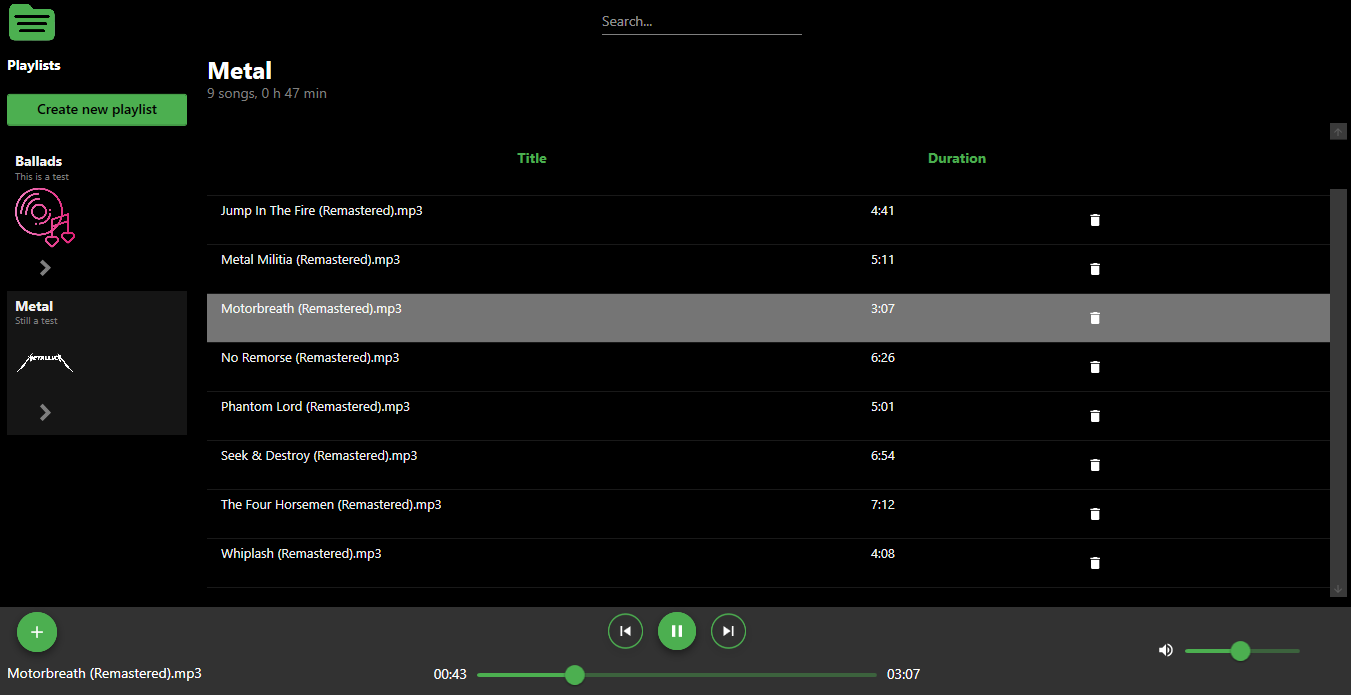
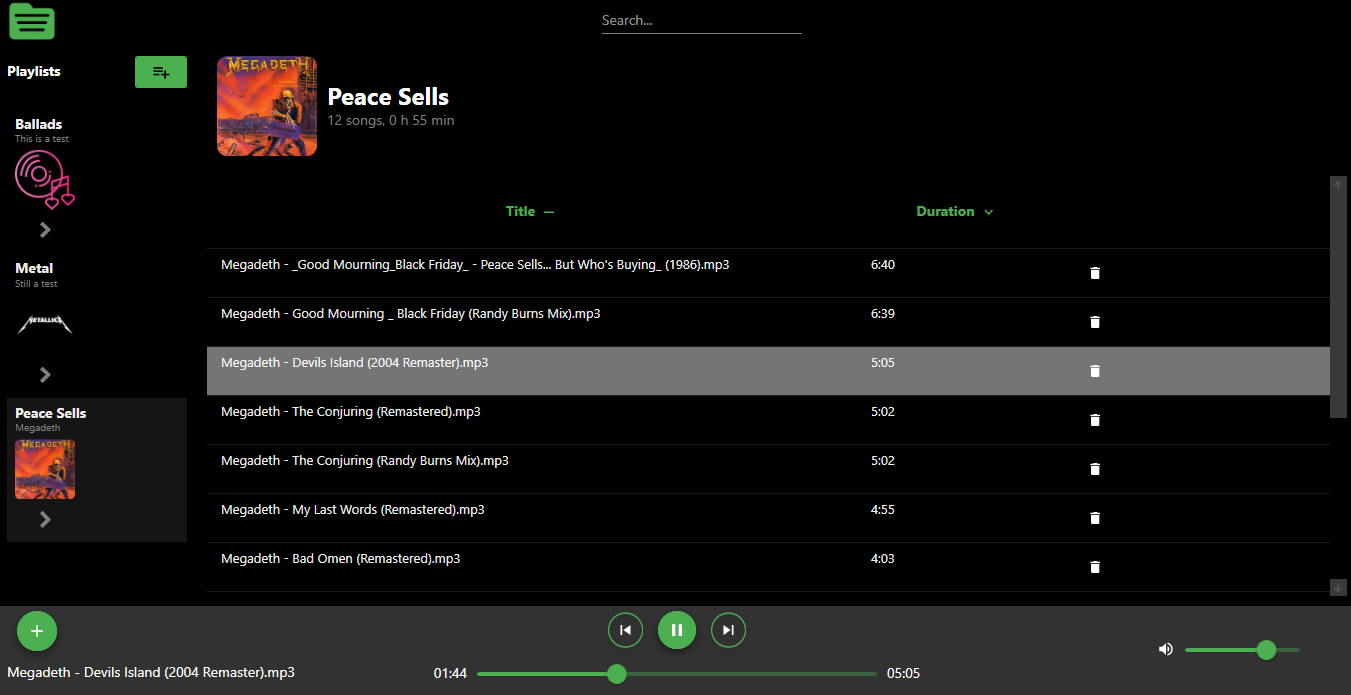
Improved UI, Fixed Search Bar

diff --git a/Views/MainWindow.xaml b/Views/MainWindow.xaml
@@ -17,7 +17,7 @@
 
 
     <materialDesign:DialogHost Identifier="RootDialog">
-        <Grid>
+        <Grid Cursor="">
             <Grid.RowDefinitions>
                 <RowDefinition Height="Auto"/>
                 <!-- TopBar -->
@@ -43,7 +43,7 @@
                            HorizontalAlignment="Left"
                            VerticalAlignment="Center"
                            Margin="0"
-                           Visibility="Visible" Source="/Assets/Icon.png"/>
+                           Visibility="Visible" Source="/Assets/Icon.png" RenderOptions.BitmapScalingMode="HighQuality"/>
 
                     <TextBox Style="{DynamicResource MaterialDesignTextBox}"
                              Text="{Binding SearchBarFilter, UpdateSourceTrigger=PropertyChanged, Mode=TwoWay}"
@@ -55,14 +55,16 @@
 
             <!-- Sidebar -->
             <StackPanel Grid.Row="1" Grid.Column="0" Background="{DynamicResource MaterialDesignDarkSeparatorBackground}" Grid.RowSpan="2">
-                <TextBlock Text="Playlists" FontWeight="Bold" Margin="10" />
-
-
-                <Button Content="Create new playlist"
-                            Command="{Binding CreateNewPlaylistCommand}"
-                            Style="{StaticResource MaterialDesignFlatMidBgButton}"
-                            Margin="10"/>
-
+                
+                <DockPanel Margin="10">
+                    <TextBlock Text="Playlists" FontWeight="Bold" HorizontalAlignment="Left" VerticalAlignment="Center"/>
+                    <Button HorizontalAlignment="Right" ToolTip="Add Playlist"
+                    Command="{Binding CreateNewPlaylistCommand}"
+                    Style="{StaticResource MaterialDesignFlatMidBgButton}">
+                        <materialDesign:PackIcon Kind="PlaylistAdd" Width="20" Height="20" Foreground="Black"/>
+                    </Button> 
+                </DockPanel>
+                
                 <ListBox ItemsSource="{Binding Playlists}"
                          SelectedItem="{Binding SelectedPlaylist, Mode=TwoWay}"
                          Background="Transparent"
@@ -75,7 +77,8 @@
                             <StackPanel Margin="0" VerticalAlignment="Bottom">
                                 <TextBlock Text="{Binding Name}" FontWeight="Bold" HorizontalAlignment="Left"/>
                                 <TextBlock Text="{Binding Description}" FontSize="10" Foreground="Gray" HorizontalAlignment="Left"/>
-                                <Image Source="{Binding ImagePath}" Width="60" Height="60" Margin="0,5" HorizontalAlignment="Left"/>
+                                <Image Source="{Binding ImagePath}" Margin="0,5" HorizontalAlignment="Left" Style="{StaticResource SmallRoundedImageStyle}"/>
+                                
 
                                 <ToggleButton x:Name="OptionsButton" Height="30" Width="60" HorizontalAlignment="Left" Style="{StaticResource MaterialDesignTreeListViewToggleButtonStyle}" Foreground="Gray"/>
                                 <Popup PlacementTarget="{Binding ElementName=OptionsButton}" 
@@ -107,10 +110,14 @@
             <DockPanel Grid.Row="1" Grid.Column="1" Margin="10" Grid.RowSpan="2" Background="{DynamicResource MaterialDesignDarkSeparatorBackground}">
                 <!-- Playlist Info -->
                 <StackPanel DockPanel.Dock="Top" Orientation="Horizontal" Margin="0,0,0,20">
+
+                    <Image Source="{Binding HeaderImage}" Margin="10,0,10,0" Style="{StaticResource BigRoundedImageStyle}"/>
+
                     <StackPanel VerticalAlignment="Center">
-                        <TextBlock x:Name="PlaylistTitle" Text="{Binding HeaderTitle}" FontSize="24" FontWeight="Bold" />
-                        <TextBlock x:Name="PlaylistSongCount" Text="{Binding HeaderContent}" FontSize="14" Foreground="Gray" />
+                        <TextBlock Text="{Binding HeaderTitle}" FontSize="24" FontWeight="Bold" />
+                        <TextBlock Text="{Binding HeaderContent}" FontSize="14" Foreground="Gray" />
                     </StackPanel>
+
                 </StackPanel>
 
                 <!-- Track list -->

diff --git a/App.xaml b/App.xaml
@@ -14,6 +14,31 @@
 
                 <ResourceDictionary Source="pack://application:,,,/MaterialDesignThemes.Wpf;component/Themes/MaterialDesign3.Defaults.xaml" />
                 <materialDesign:BundledTheme BaseTheme="Dark" PrimaryColor="Green" SecondaryColor="Green"/>
+                <ResourceDictionary>
+                    <Style x:Key="BigRoundedImageStyle" TargetType="Image">
+                        <Setter Property="Width" Value="100"/>
+                        <Setter Property="Height" Value="100"/>
+                        <Setter Property="Stretch" Value="UniformToFill"/>
+                        <Setter Property="RenderOptions.BitmapScalingMode" Value="HighQuality"/>
+                        <Setter Property="Clip">
+                            <Setter.Value>
+                                <RectangleGeometry RadiusX="10" RadiusY="10" Rect="0,0,100,100"/>
+                            </Setter.Value>
+                        </Setter>
+                    </Style>
+                    
+                    <Style x:Key="SmallRoundedImageStyle" TargetType="Image">
+                        <Setter Property="Width" Value="60"/>
+                        <Setter Property="Height" Value="60"/>
+                        <Setter Property="Stretch" Value="UniformToFill"/>
+                        <Setter Property="RenderOptions.BitmapScalingMode" Value="HighQuality"/>
+                        <Setter Property="Clip">
+                            <Setter.Value>
+                                <RectangleGeometry RadiusX="5" RadiusY="5" Rect="0,0,60,60"/>
+                            </Setter.Value>
+                        </Setter>
+                    </Style>
+                </ResourceDictionary>
 
             </ResourceDictionary.MergedDictionaries>
 

diff --git a/ViewModels/MainViewModel.cs b/ViewModels/MainViewModel.cs
@@ -70,9 +70,10 @@ namespace Localfy.ViewModels
         //Header properties
         [ObservableProperty]
         private string headerTitle;
-
         [ObservableProperty]
         private string headerContent;
+        [ObservableProperty]
+        private string headerImage;
 
         //Footer properties
         [ObservableProperty]
@@ -435,6 +436,8 @@ namespace Localfy.ViewModels
             currentSongs = _playlistService.GetPlaylist(SelectedPlaylist.Id).Songs;
             CurrentSongsDisplay = currentSongs;
             UpdatePlaylistInfo();
+
+            SearchBarFilter = string.Empty;
         }
 
         private void UpdatePlaylistInfo()
@@ -445,7 +448,7 @@ namespace Localfy.ViewModels
 
             HeaderTitle = SelectedPlaylist.Name;
             HeaderContent = $"{SelectedPlaylist.Songs.Count} songs, {totalHours} h {minutes} min";
-
+            HeaderImage = SelectedPlaylist.ImagePath;
         }
 
 
